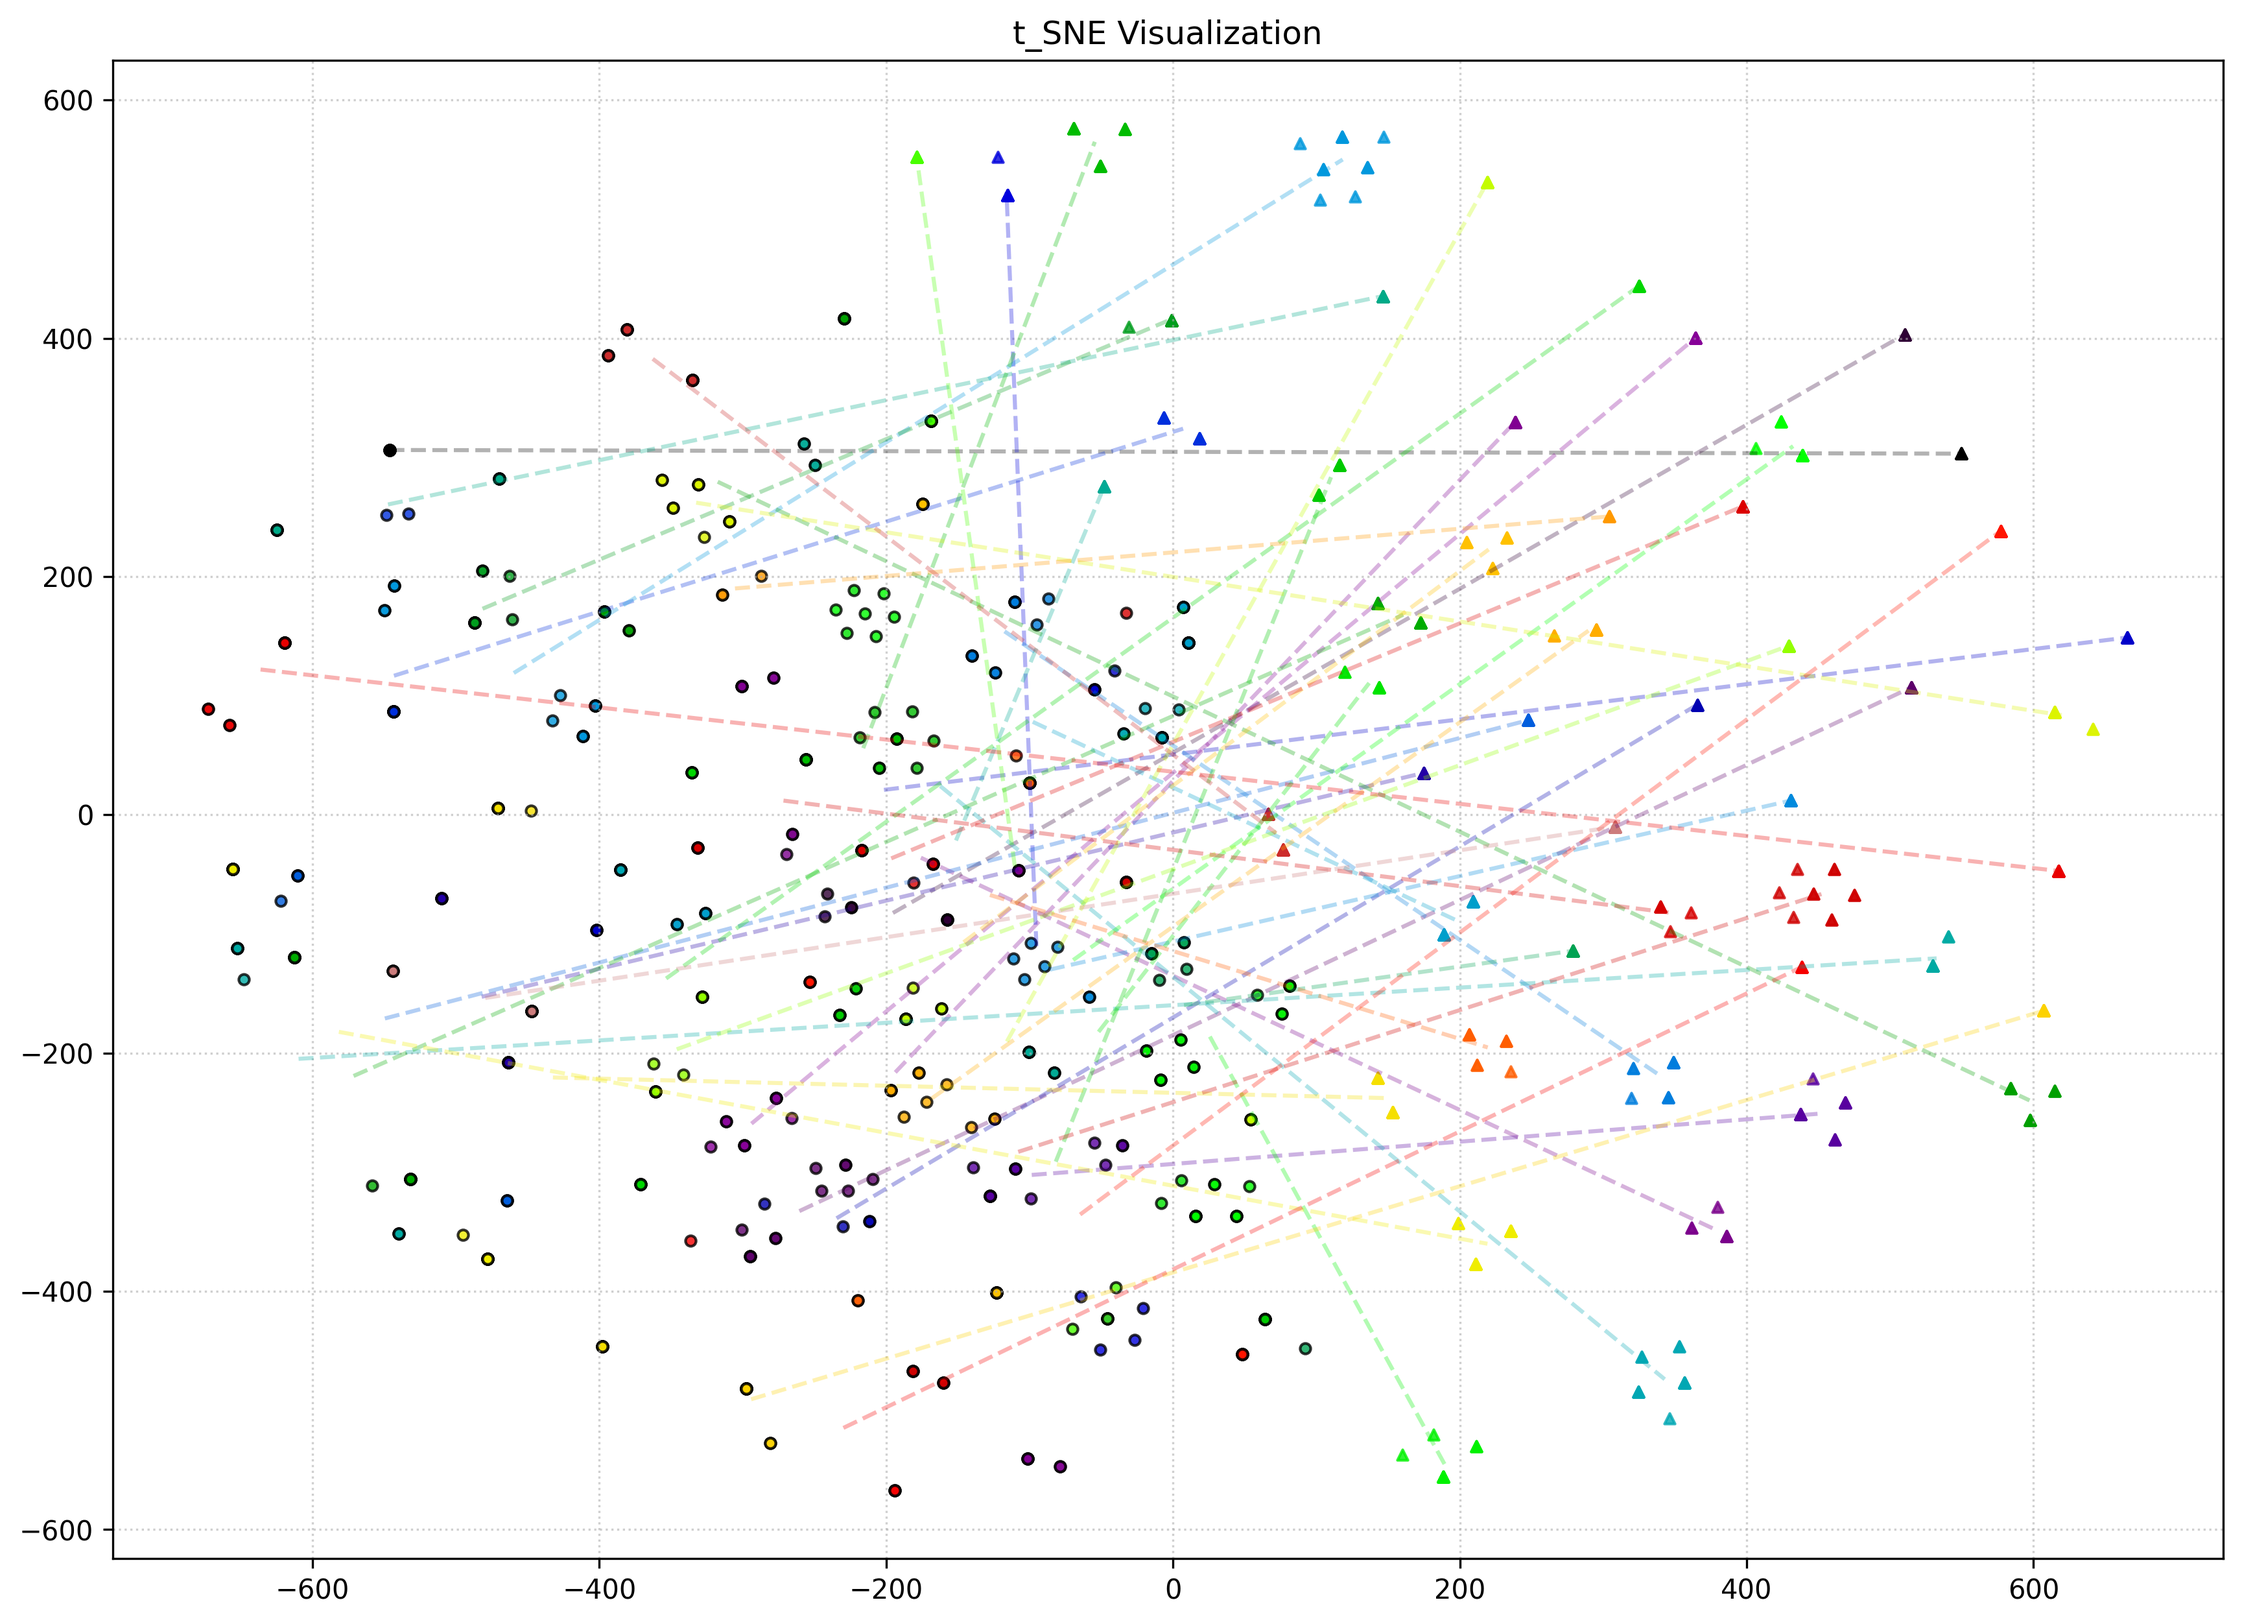
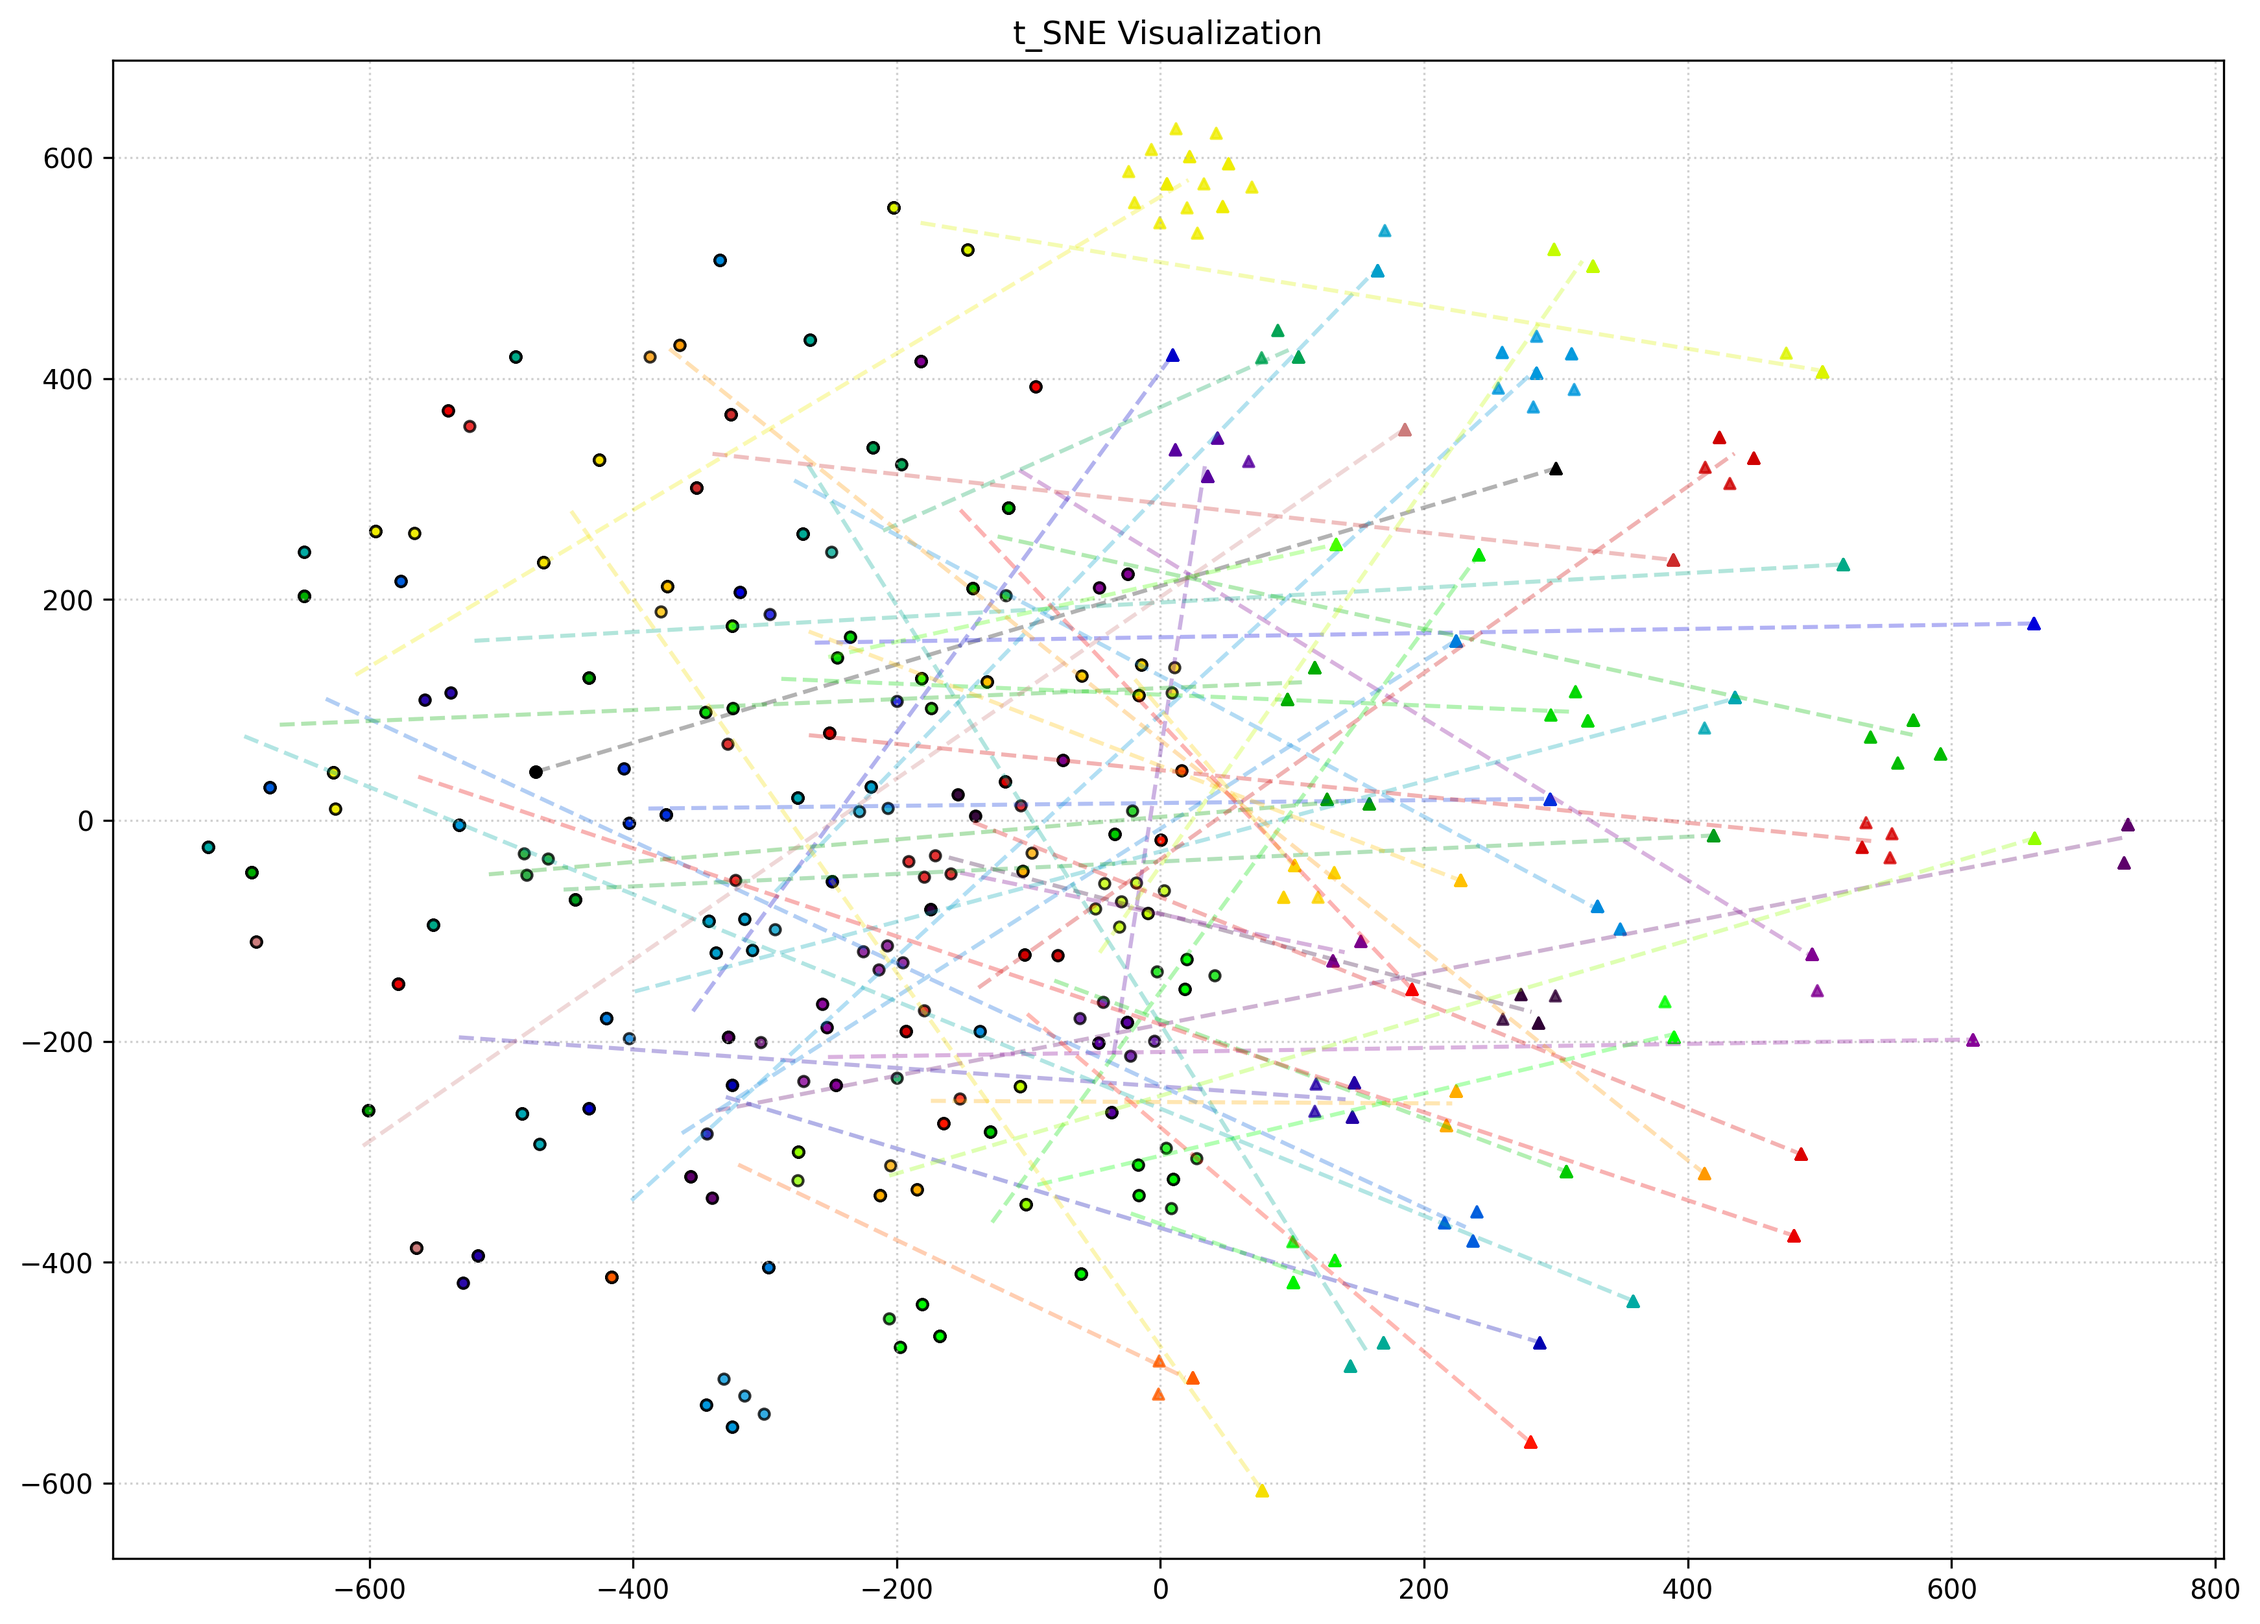
fixed bug where i was using the voice translator for the face embedding instead of using the face translator

diff --git a/t_sne.py b/t_sne.py
@@ -21,7 +21,7 @@ def visualize_tsne():
     voice_translator = ModalityTranslator(input_dim = 128, output_dim = 512).to(DEVICE)
 
     # using the fixed model where the translators actually learned something
-    checkpoint = torch.load("final_model_900IDS.pth", map_location=DEVICE)
+    checkpoint = torch.load("final_model_attention_and_dropout.pth", map_location=DEVICE)
     face_translator.load_state_dict(checkpoint['face_translator'])
     voice_translator.load_state_dict(checkpoint['voice_translator'])
 

diff --git a/umap_vis.py b/umap_vis.py
@@ -22,7 +22,7 @@ def visualize_umap():
     voice_translator = ModalityTranslator(input_dim = 128, output_dim = 512).to(DEVICE)
 
     # using the fixed model where the translators actually learned something
-    checkpoint = torch.load("final_model_900IDS.pth", map_location=DEVICE)
+    checkpoint = torch.load("final_model_attention_and_dropout.pth", map_location=DEVICE)
     face_translator.load_state_dict(checkpoint['face_translator'])
     voice_translator.load_state_dict(checkpoint['voice_translator'])
 

diff --git a/train.py b/train.py
@@ -64,7 +64,7 @@ if __name__ == "__main__":
             
             
             # translate the frozen vectors into aligned vectors 
-            face_emb = voice_translator(face_emb)
+            face_emb = face_translator(face_emb)
             voice_emb = voice_translator(voice_emb) 
             
             #calculate Alignment Loss
